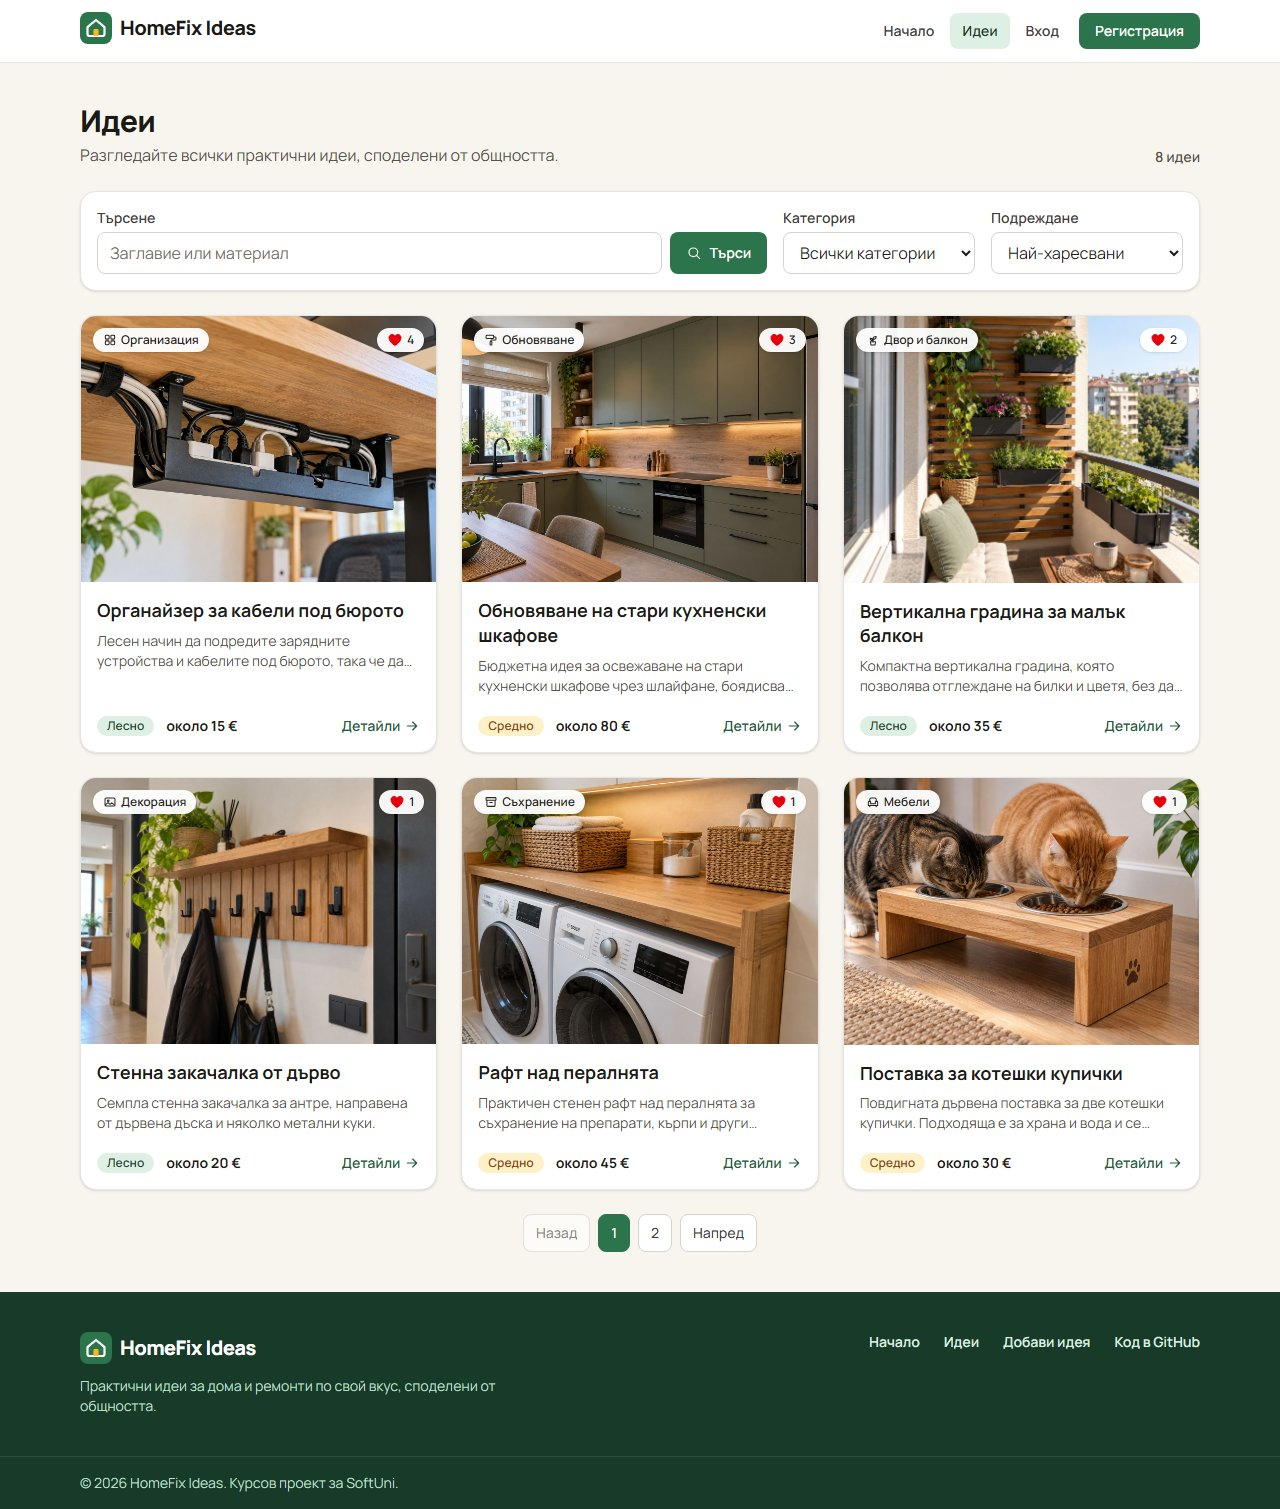
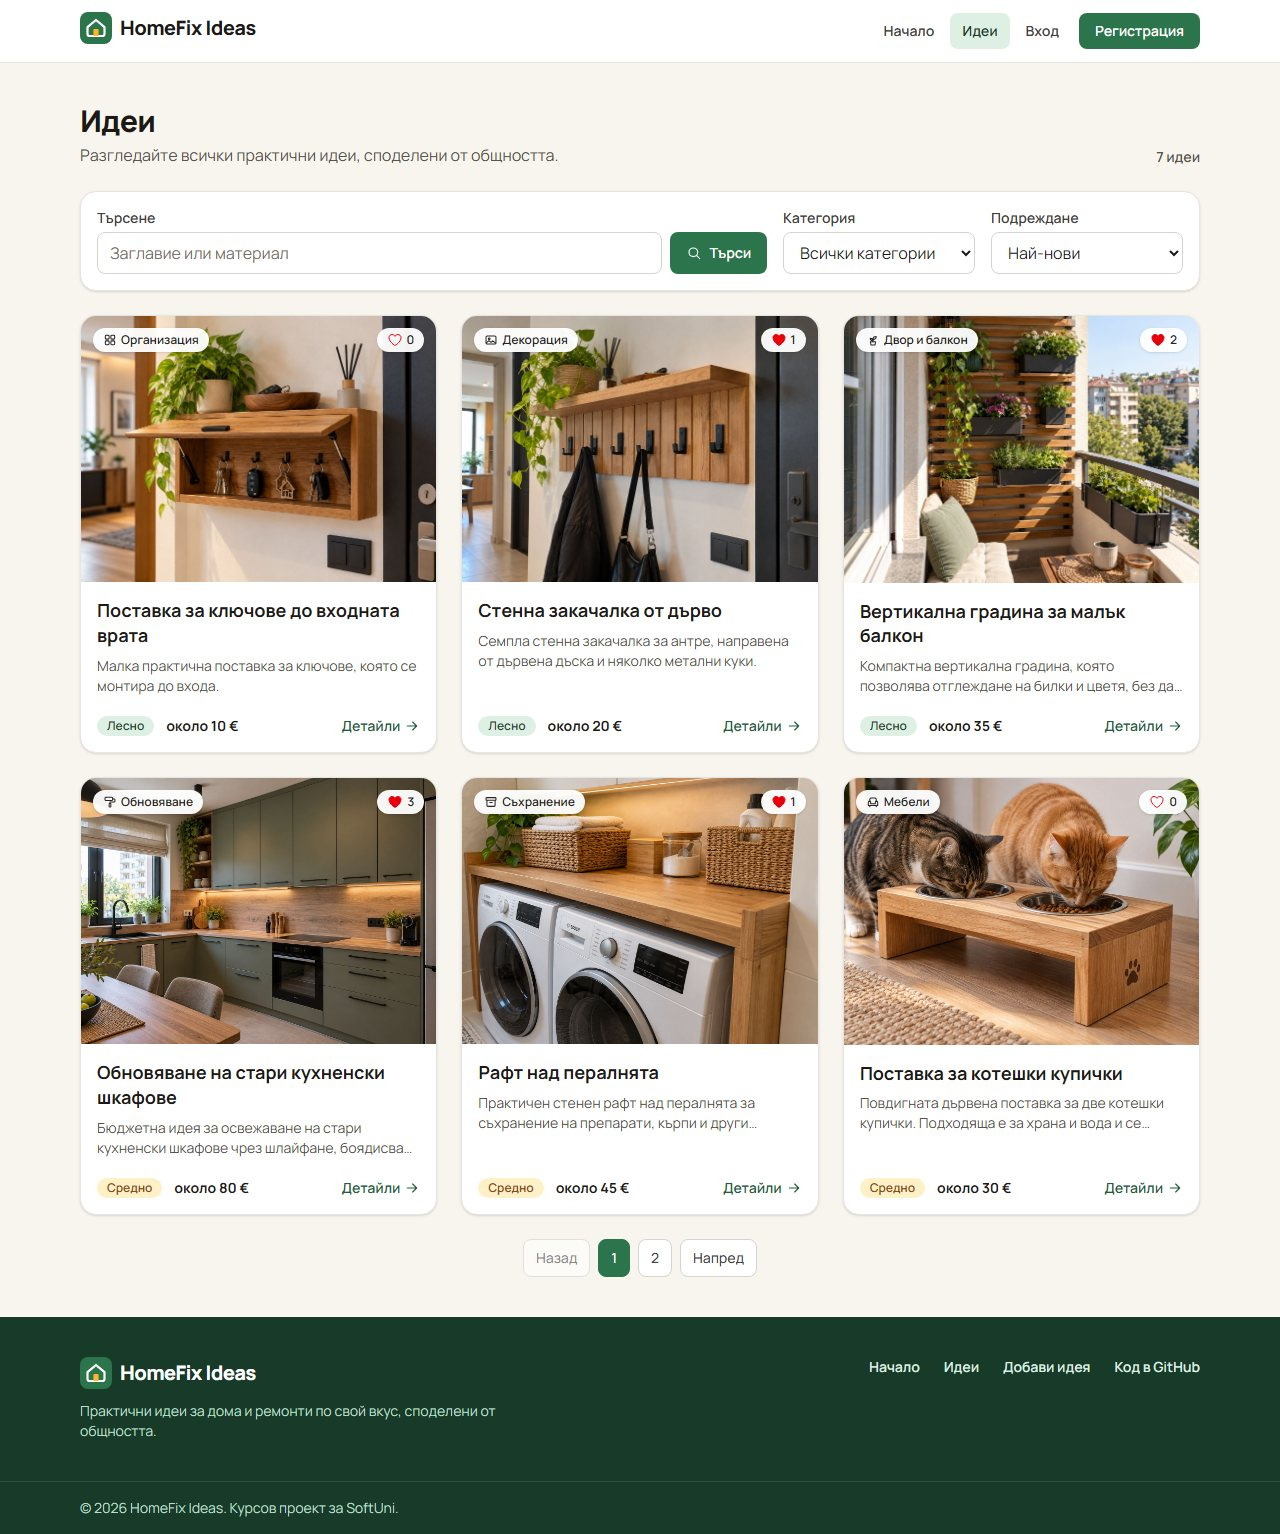
Update README and screenshots for the empty states, details and 404

diff --git a/README.md b/README.md
@@ -58,7 +58,7 @@ A short tour that covers the main requirements:
 
 - Public home page with the latest ideas and links to the six categories
 - Public catalog with search, category filter, sorting and pagination, all stored in the URL
-- Public details page with photo, cost, materials, description, likes and comments
+- Public details page with photo, publish date, cost, materials, description, likes and comments
 - Registration, login and logout. The session survives a page refresh
 - Create, edit and delete ideas. Only the author can edit or delete an idea
 - Photo upload to Cloud Storage with type and size validation and a preview
@@ -172,7 +172,7 @@ Every service builds its URLs from this variable, for example `${SERVER_URL}/dat
 #### Guest (Not Authenticated)
 
 - **Available pages / routes:** home page `/`, catalog `/ideas` (with search, filter, sorting and pages), idea details `/ideas/:ideaId`, login `/login`, register `/register`, and the 404 page for any unknown URL.
-- **Public data shown:** all ideas with photo, category, difficulty, estimated cost, materials and description, the number of likes, and all comments with the author's name and date.
+- **Public data shown:** all ideas with photo, category, difficulty, estimated cost, materials, description and publish date, the number of likes, and all comments with the author's name and date.
 - On the details page, guests see „Влезте, за да харесате“ (Log in to like) and „Влезте в профила си, за да коментирате“ (Log in to comment) instead of the buttons and the comment form.
 - Opening a private URL (for example `/ideas/create`) redirects to `/login`.
 
@@ -426,7 +426,7 @@ Two more examples:
   - **Icons:** a small set of inline SVG icons in [Icon.jsx](src/components/icon/Icon.jsx), without an icon library. Each category has its own icon.
   - **Feedback:** hover, focus-visible, active and disabled states on all controls.
   - **Responsive layout:** grids with 1, 2 or 3 columns. Below 1024 px the navigation collapses behind a menu button ([Header.jsx](src/components/layout/Header.jsx)).
-- **Small reusable UI parts:** [Logo](src/components/logo/Logo.jsx), [Icon](src/components/icon/Icon.jsx), [IdeaImage](src/components/idea-image/IdeaImage.jsx) (the photo or a placeholder), [CategoryBadge](src/components/category-badge/CategoryBadge.jsx) and [DifficultyBadge](src/components/difficulty-badge/DifficultyBadge.jsx). The idea card and the details page share them.
+- **Small reusable UI parts:** [Logo](src/components/logo/Logo.jsx), [Icon](src/components/icon/Icon.jsx), [IdeaImage](src/components/idea-image/IdeaImage.jsx) (the photo or a placeholder), [CategoryBadge](src/components/category-badge/CategoryBadge.jsx) and [DifficultyBadge](src/components/difficulty-badge/DifficultyBadge.jsx). The idea card and the details page share them. [EmptyState](src/components/empty-state/EmptyState.jsx) is the box for every empty list, and [SkeletonCard](src/components/skeleton-card/SkeletonCard.jsx) and [SkeletonDetails](src/components/skeleton-details/SkeletonDetails.jsx) are the gray placeholders shown while the lists and the details page load.
 
 ### 10. Typical User Flow
 
@@ -450,12 +450,12 @@ Two more examples:
   - A failed photo upload stops the save, so no idea is saved with a broken image.
   - Submit buttons are disabled while a request is pending.
 - **Empty or missing data states:**
-  - Empty catalog, „Моите идеи“ and „Любими“ pages show a message and a call-to-action button.
+  - Empty catalog, „Моите идеи“ and „Любими“ pages show an icon, a message and a call-to-action button ([EmptyState](src/components/empty-state/EmptyState.jsx)).
   - A search with no results offers „Изчисти филтрите“.
   - An unknown category in the URL shows „Такава категория не съществува.“ (This category does not exist).
   - An invalid page number falls back to a valid page.
   - An idea without a photo shows a placeholder, and empty optional fields are hidden.
-  - A missing idea shows a message, a discussion without comments invites the first comment, and unknown URLs show the 404 page.
+  - A missing idea shows a message, a discussion without comments invites the first comment, and unknown URLs show the 404 page with links to the ideas and to the home page.
 
 ---
 
@@ -508,8 +508,9 @@ homefix-ideas/
 │   │   ├── my-ideas/ favorite-ideas/ login/ register/ not-found/        # pages
 │   │   ├── idea-form/ idea-card/ idea-list/ idea-filters/ pagination/   # reusable
 │   │   ├── idea-likes/ idea-comment-create/ idea-comment-list/          # reusable
-│   │   ├── idea-image/ category-badge/ difficulty-badge/                # reusable
-│   │   └── field-error/ heart-icon/ skeleton-card/ icon/ logo/          # small UI parts
+│   │   ├── idea-image/ category-badge/ difficulty-badge/ empty-state/   # reusable
+│   │   ├── field-error/ heart-icon/ icon/ logo/                         # small UI parts
+│   │   └── skeleton-card/ skeleton-details/                             # loading placeholders
 │   ├── contexts/                 # AuthContext
 │   ├── hooks/                    # useLocalStorage, useIdeaFilters
 │   ├── services/                 # request.js + one service per collection, imageService
